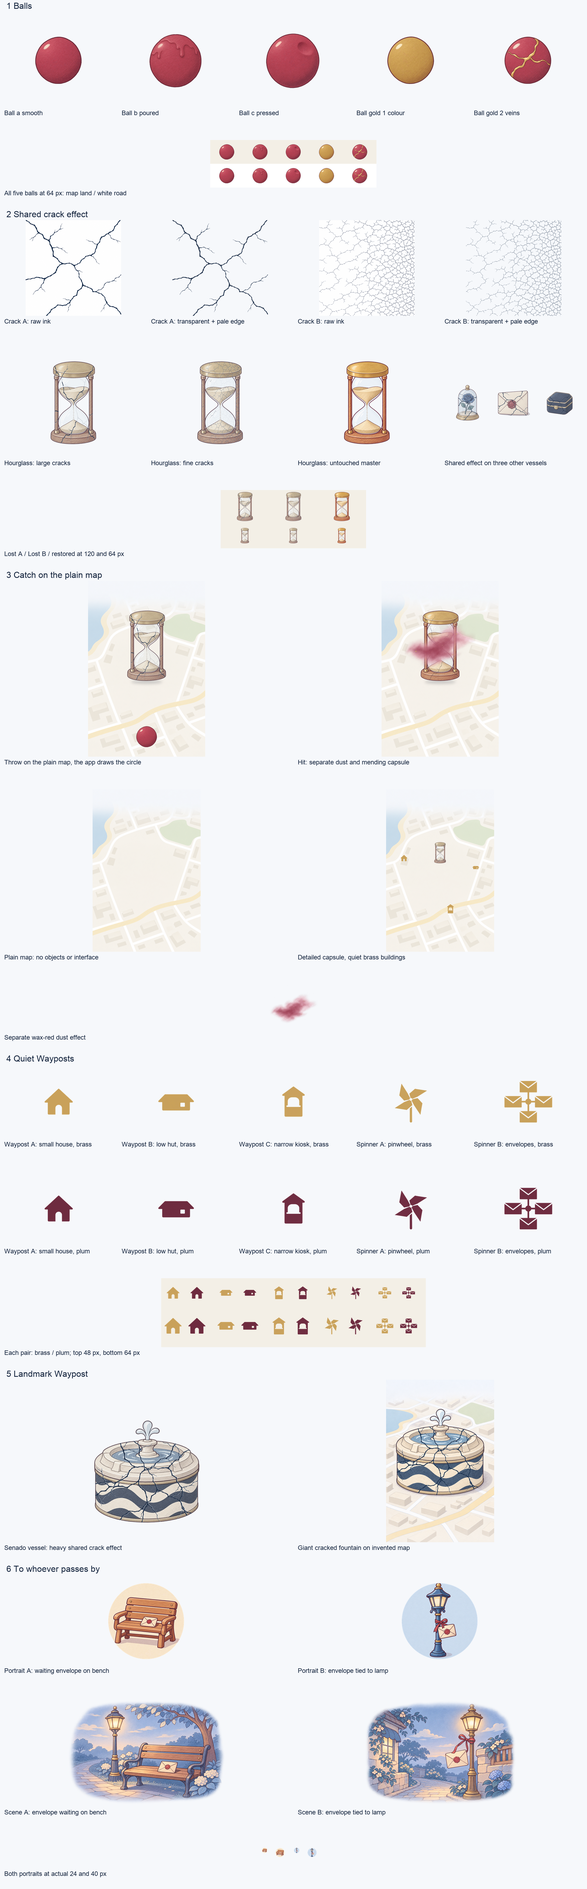
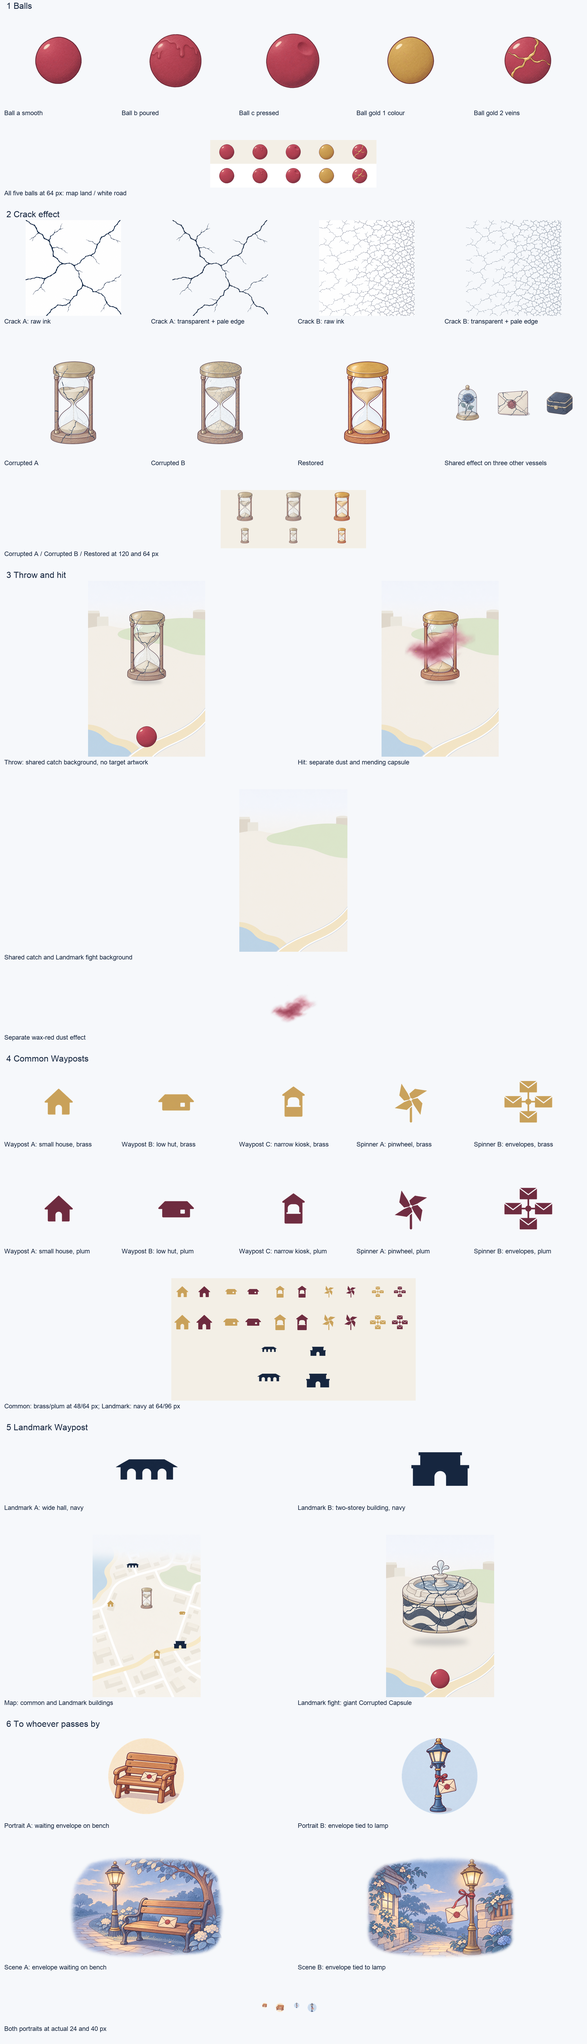
Separate Time Capsule catch backdrop and Landmark Wayposts

diff --git a/design/art/concepts/lost-and-found/make-review.py b/design/art/concepts/lost-and-found/make-review.py
@@ -16,8 +16,9 @@ def fit(im,w,h):
 def layer(im,xy):
     out=Image.new("RGBA",SIZE);out.alpha_composite(im,xy);return out
 def export(name,im): im.save(P/name)
+LANDMARKS=("simple-landmark-a-hall","simple-landmark-b-steps")
 def shapes():
-    for name in NAMES:
+    for name in LANDMARKS:
         f=P/f"waypost/{name}-raw.png";im=load(f)
         if max(im.size)>1024:im.thumbnail((1024,1024),Image.Resampling.LANCZOS)
         # Pad to a white square; preserve geometry and never upscale.
@@ -28,48 +29,54 @@ def shapes():
         alpha=gray.point(lambda v:max(0,min(255,round((255-v)*255/218))))
         # Remove near-white paper noise; retain antialiased boundaries.
         alpha=alpha.point(lambda v:0 if v<8 else v)
-        for colour,rgb in (("brass",BRASS),("plum",PLUM)):
+        for colour,rgb in (("navy",NAVY),):
             out=Image.new("RGBA",im.size,rgb+(0,));out.putalpha(alpha)
             export(f"waypost/{name}-{colour}.png",out)
 def compositions():
-    folder=P/"screens/layers";folder.mkdir(exist_ok=True)
-    background=load(P/"screens/map-plain.png")
+    background=load(P/"screens/catch-background.png")
     assert background.size==SIZE
-    lost=load(P/"cracks/hourglass-lost-a.png")
-    restored=load(P/"cracks/hourglass-restored.png")
-    bounds=box(lost)
-    capsule=resized(lost.crop(bounds),width=340)
-    mended=resized(Image.blend(lost,restored,.6).crop(bounds),width=340)
-    x=(1024-capsule.width)//2;y=260
-    shadow=Image.new("RGBA",SIZE);d=ImageDraw.Draw(shadow)
-    d.ellipse((x+35,y+capsule.height-8,x+capsule.width-35,y+capsule.height+25),fill=NAVY+(48,))
-    shadow=shadow.filter(ImageFilter.GaussianBlur(12))
-    ball=resized(crop(load(P/"ball/ball-a-smooth.png")),width=180)
-    ball_layer=layer(ball,((1024-ball.width)//2,1270))
-    capsule_layer=layer(capsule,(x,y));mending_layer=layer(mended,(x,y))
-    dust=resized(crop(load(P/"screens/hit-dust.png")),width=620)
-    dust_layer=layer(dust,((1024-dust.width)//2,y+(capsule.height-dust.height)//2))
-    for name,im in (("shadow",shadow),("capsule-lost",capsule_layer),("capsule-mending",mending_layer),("ball-a",ball_layer),("dust",dust_layer)):
-        export(f"screens/layers/{name}.png",im)
+    shadow=load(P/"screens/layers/shadow.png")
+    capsule=load(P/"screens/layers/capsule-corrupted.png")
+    mending=load(P/"screens/layers/capsule-mending.png")
+    ball=load(P/"screens/layers/ball-a.png")
+    dust=load(P/"screens/layers/dust.png")
     throw=background.copy()
-    for im in (shadow,capsule_layer,ball_layer):throw=Image.alpha_composite(throw,im)
+    for im in (shadow,capsule,ball):throw=Image.alpha_composite(throw,im)
     export("screens/screen-throw.png",throw.convert("RGB"))
     hit=background.copy()
-    for im in (shadow,mending_layer,dust_layer):hit=Image.alpha_composite(hit,im)
+    for im in (shadow,mending,dust):hit=Image.alpha_composite(hit,im)
     export("screens/screen-hit.png",hit.convert("RGB"))
-    overview=background.copy()
-    hero=resized(crop(lost),height=200);overview.alpha_composite(hero,((1024-hero.width)//2,500))
+    fountain=resized(crop(load(P/"cracks/senado-corrupted-heavy.png")),width=717)
+    fx=(1024-fountain.width)//2;fy=240
+    large_shadow=resized(shadow.crop(shadow.getchannel("A").getbbox()),width=620)
+    fight_shadow=layer(large_shadow,((1024-large_shadow.width)//2,fy+fountain.height-8))
+    fight_capsule=layer(fountain,(fx,fy))
+    export("screens/layers/landmark-shadow.png",fight_shadow)
+    export("screens/layers/landmark-capsule.png",fight_capsule)
+    fight=background.copy()
+    for im in (fight_shadow,fight_capsule,ball):fight=Image.alpha_composite(fight,im)
+    export("screens/screen-landmark-fight.png",fight.convert("RGB"))
+    overview=load(P/"screens/map-plain.png")
+    hero=resized(crop(load(P/"cracks/hourglass-corrupted-a.png")),height=200)
+    overview.alpha_composite(hero,((1024-hero.width)//2,500))
     for name,(cx,cy) in zip(NAMES[:3],((170,650),(850,740),(610,1130))):
         im=resized(crop(load(P/f"waypost/{name}-brass.png")),width=64)
         overview.alpha_composite(im,(cx-im.width//2,cy-im.height//2))
+    for name,(cx,cy) in zip(LANDMARKS,((380,290),(830,1040))):
+        im=resized(crop(load(P/f"waypost/{name}-navy.png")),width=120)
+        overview.alpha_composite(im,(cx-im.width//2,cy-im.height//2))
     export("screens/map-capsule-and-wayposts.png",overview.convert("RGB"))
 def small_check():
-    out=Image.new("RGBA",(1000,260),LAND+(255,))
+    out=Image.new("RGBA",(1000,500),LAND+(255,))
     for i,name in enumerate(NAMES):
         for j,colour in enumerate(("brass","plum")):
             for row,size in enumerate((48,64)):
                 im=fit(crop(load(P/f"waypost/{name}-{colour}.png")),size,size)
                 out.alpha_composite(im,(i*200+j*90+(90-im.width)//2,15+row*125+(80-im.height)//2))
+    for i,name in enumerate(LANDMARKS):
+        for row,size in enumerate((64,96)):
+            im=fit(crop(load(P/f"waypost/{name}-navy.png")),size,size)
+            out.alpha_composite(im,(350+i*200+(100-im.width)//2,280+row*110))
     export("checks/wayposts-64.png",out)
 def sheet():
     font=ImageFont.truetype("/System/Library/Fonts/Supplemental/Arial.ttf",24)
@@ -78,16 +85,17 @@ def sheet():
     rows=[
       ("1 Balls",[(str(f.relative_to(P)),f.stem.replace("ball-","Ball ").replace("-"," ")) for f in sorted((P/"ball").glob("*.png"))],400),
       ("",[("checks/balls-64.png","All five balls at 64 px: map land / white road")],220),
-      ("2 Shared crack effect",[(f"cracks/crack-{k}{s}.png",f"Crack {k[0].upper()}: "+("raw ink" if s else "transparent + pale edge")) for k in ("a-large","b-fine") for s in ("-raw","")],400),
-      ("",[(f"cracks/hourglass-{k}.png",label) for k,label in (("lost-a","Hourglass: large cracks"),("lost-b","Hourglass: fine cracks"),("restored","Hourglass: untouched master"))]+[("cracks/other-vessels-proof.png","Shared effect on three other vessels")],450),
-      ("",[("checks/hourglasses-120-64.png","Lost A / Lost B / restored at 120 and 64 px")],260),
-      ("3 Catch on the plain map",[("screens/screen-throw.png","Throw on the plain map, the app draws the circle"),("screens/screen-hit.png","Hit: separate dust and mending capsule")],700),
-      ("",[("screens/map-plain.png","Plain map: no objects or interface"),("screens/map-capsule-and-wayposts.png","Detailed capsule, quiet brass buildings")],650),
+      ("2 Crack effect",[(f"cracks/crack-{k}{s}.png",f"Crack {k[0].upper()}: "+("raw ink" if s else "transparent + pale edge")) for k in ("a-large","b-fine") for s in ("-raw","")],400),
+      ("",[(f"cracks/hourglass-{k}.png",label) for k,label in (("corrupted-a","Corrupted A"),("corrupted-b","Corrupted B"),("restored","Restored"))]+[("cracks/other-vessels-proof.png","Shared effect on three other vessels")],450),
+      ("",[("checks/hourglasses-120-64.png","Corrupted A / Corrupted B / Restored at 120 and 64 px")],260),
+      ("3 Throw and hit",[("screens/screen-throw.png","Throw: shared catch background, no target artwork"),("screens/screen-hit.png","Hit: separate dust and mending capsule")],700),
+      ("",[("screens/catch-background.png","Shared catch and Landmark fight background")],650),
       ("",[("screens/hit-dust.png","Separate wax-red dust effect")],220),
-      ("4 Quiet Wayposts",[(f"waypost/{n}-brass.png",label+", brass") for n,label in zip(NAMES,names)],320),
+      ("4 Common Wayposts",[(f"waypost/{n}-brass.png",label+", brass") for n,label in zip(NAMES,names)],320),
       ("",[(f"waypost/{n}-plum.png",label+", plum") for n,label in zip(NAMES,names)],320),
-      ("",[("checks/wayposts-64.png","Each pair: brass / plum; top 48 px, bottom 64 px")],300),
-      ("5 Landmark Waypost",[("cracks/senado-lost-heavy.png","Senado vessel: heavy shared crack effect"),("screens/screen-landmark.png","Giant cracked fountain on invented map")],650),
+      ("",[("checks/wayposts-64.png","Common: brass/plum at 48/64 px; Landmark: navy at 64/96 px")],500),
+      ("5 Landmark Waypost",[("waypost/simple-landmark-a-hall-navy.png","Landmark A: wide hall, navy"),("waypost/simple-landmark-b-steps-navy.png","Landmark B: two-storey building, navy")],300),
+      ("",[("screens/map-capsule-and-wayposts.png","Map: common and Landmark buildings"),("screens/screen-landmark-fight.png","Landmark fight: giant Corrupted Capsule")],650),
       ("6 To whoever passes by",[("whoever/portrait-a-bench.png","Portrait A: waiting envelope on bench"),("whoever/portrait-b-lamp.png","Portrait B: envelope tied to lamp")],380),
       ("",[("whoever/scene-a-bench.png","Scene A: envelope waiting on bench"),("whoever/scene-b-lamp.png","Scene B: envelope tied to lamp")],450),
       ("",[("checks/portraits-24-40.png","Both portraits at actual 24 and 40 px")],150)

diff --git a/design/art/concepts/lost-and-found/README.md b/design/art/concepts/lost-and-found/README.md
@@ -1,65 +1,120 @@
 # Time Capsule / 時光膠囊 — concept pictures
 
-Concept review only. Catching uses the plain live map. The app draws the target and animates the capsule in code; neither is baked into these pictures. Ball A is a stand-in until Roy chooses a ball.
+Review concepts only. System vessels are **Corrupted Capsules / 破損膠囊**. A common Waypost is a quiet flat building; a Landmark Waypost is a larger flat navy building. The giant Corrupted Capsule appears inside the Landmark fight preview, not as its map marker.
 
 ## Roy to choose
 
-- Ball: A smooth, B poured, or C pressed wax.
+- Ball: A smooth, B poured or C pressed wax.
 - Gold treatment: solid brass-gold wax or branching brass-gold veins.
-- Crack style: A large branching cracks or B fine crackle.
-- Waypost shape: A small house, B low wide hut, or C narrow kiosk.
-- Waypost colour: flat brass or flat plum.
-- Spinning object: four-blade pinwheel or four-envelope windmill.
+- Crack style: Corrupted A (large branching cracks) or Corrupted B (fine crackle).
+- Common Waypost shape: small house, low wide hut or narrow kiosk.
+- Common Waypost colour: flat brass or flat plum.
+- Landmark Waypost shape: wide hall or two-storey building.
+- Spinning object: pinwheel or four-envelope windmill.
 - Portrait: bench or lamp.
 - Scene: bench or lamp.
 
-## Kept art
+## Preserved art and file renames
 
-Everything under `ball/`, `cracks/` and `whoever/`, plus `screens/screen-landmark.png`, stays byte-identical to commit `15930fd2b182bbd9b5810416a3a2ab45a80e6d3d`. The six detailed Waypost/spinner pictures are deleted.
+Everything in `ball/` and `whoever/`, `screens/map-plain.png`, `screens/hit-dust.png`, and all common `waypost/simple-*` files from commit `8f6100e` stays byte-identical.
 
-The maps are invented generic streets and show no real place. The real-geography reference step does not apply. The existing landmark illustration is retained unchanged.
+The four renamed capsule pictures are also byte-identical to their source blobs in that commit:
+- `cracks/hourglass-corrupted-a.png`
+- `cracks/hourglass-corrupted-b.png`
+- `cracks/senado-corrupted-heavy.png`
+- `screens/layers/capsule-corrupted.png`
 
-## Independent layers
+They were renamed with `git mv`. The older Landmark screen is deleted.
 
-The app can move these separately:
+## Independent app layers
 
-- Map: `screens/map-plain.png`.
-- Shadow: `screens/layers/shadow.png`.
-- Capsule: `screens/layers/capsule-lost.png` or `capsule-mending.png`.
-- Ball: `screens/layers/ball-a.png`.
-- Dust: `screens/hit-dust.png` as the standalone effect, or `screens/layers/dust.png` as a positioned preview layer.
+Map, shadow, capsule, ball and dust remain separate. For catch/fight, the background is `screens/catch-background.png`; `screens/map-plain.png` is the live-map concept background.
 
-The positioned layers all use a transparent 1024 × 1536 canvas. Capsule layers contain no shadow, ball, dust or target. The throw/hit composites are review previews; the app should use the separate layers for motion.
+Existing positioned 1024 × 1536 layers stay separate: `screens/layers/shadow.png`, `capsule-corrupted.png`, `capsule-mending.png`, `ball-a.png`, and `dust.png`. The fight adds independent `landmark-shadow.png` and `landmark-capsule.png` layers. No target, dial, ring or glow is drawn around a capsule. The app supplies the target and movement.
+
+Both backgrounds are invented and show no real place, so the real-geography reference step does not apply. The catch background uses larger, calmer flat shapes than the live map.
 
 ## Script processing
 
-Run from the repository root with Pillow in a temporary environment outside the repository:
+Run from the repository root using Pillow in a temporary environment outside the repository:
 
 ```sh
 /tmp/timecapsule-concept-venv/bin/python design/art/concepts/lost-and-found/make-review.py
 ```
 
-`make-review.py` writes only inside this concept folder. It never re-saves the kept art.
+The script writes only inside this concept folder. It does not re-save protected art or the renamed capsule pictures.
 
-- The five `waypost/simple-*-raw.png` sources are downscaled without upscaling, with any nonsquare output padded to a white 1024 square. White becomes transparent using darkness as alpha, normalised to navy ink density. Near-white paper noise is discarded. Each mask gets constant RGB #C9A15A brass or #6E2B3F plum. No blue derivative versions are made.
-- The normal ball is the exact `ball/ball-a-smooth.png` artwork cropped by alpha and uniformly resized to 180 px wide.
-- The lost capsule is the exact `cracks/hourglass-lost-a.png`, cropped by alpha and uniformly resized to 340 px wide. It starts at y=260 on the 1024 × 1536 preview canvas.
-- The mending capsule blends the full lost and restored hourglass source pixels 60% toward the restored source, then uses the exact same crop, scale and position.
-- The shadow is a small low-opacity navy ellipse blurred by 12 px, exported on its own canvas.
-- `screens/screen-throw.png` composites map → shadow → lost capsule → normal ball. No motion marks, glow or target.
-- `screens/screen-hit.png` composites map → same shadow → mending capsule → dust centred over the capsule at 620 px wide. No ball or target.
-- `screens/map-capsule-and-wayposts.png` uses the map, an exact lost hourglass at 200 px tall, and the three brass buildings at 64 px wide on different streets.
-- `checks/wayposts-64.png` shows each shape in brass and plum, top row at maximum dimension 48 px, bottom at 64 px, on map land #F3EFE6.
-- `contact-sheet.png` groups the kept balls, cracks, landmark and envelope portraits/scenes with the revised map, catch previews, Wayposts, spinners and checks. Width is 2200 px. Only this image contains captions.
-- Existing ball/hourglass/portrait checks stay unchanged. The original kept crack overlays use darkness as alpha with a thin offset pale edge; lost vessels use 50% saturation, a light cool mist and cracks stretched to the alpha bounding box and clipped to original alpha. The restored hourglass is an untouched master copy. Existing portrait circles and scene edge fades are preserved.
+- The two new Landmark raw images are downscaled to 1024 without upscaling and padded to a white square if needed. White becomes transparent using darkness as alpha, normalised to navy ink density. Near-white noise is removed; RGB is constant navy #16263F.
+- Common Waypost/spinner brass and plum masks remain unchanged. They were made from the existing raw shapes using the same darkness-to-alpha method.
+- The Corrupted hourglass layer retains its exact 340 px width, y=260 position and artwork. Ball A remains the 180 px stand-in at its previous bottom-centre position.
+- `screens/screen-throw.png` and `screen-hit.png` retain the exact positioned layers, sizes and order from `8f6100e`; only their background changes to the shared catch background.
+- The mending layer is retained: full source pixels blended 60% toward the restored hourglass, then uniformly cropped/scaled like the Corrupted layer.
+- `screens/screen-landmark-fight.png` composites catch background → enlarged existing soft shadow → the kept heavy Corrupted Senado capsule at 717 px wide, y=240 → the exact existing ball layer. The shadow's full alpha bounds preserve its soft edges. The separate fight capsule and shadow layers are exported.
+- `screens/map-capsule-and-wayposts.png` keeps the previous live-map background, 200 px Corrupted hourglass and three 64 px brass Wayposts at their previous positions. It adds both navy Landmark buildings at 120 px wide on separate streets. No giant capsule is placed on this map.
+- `checks/wayposts-64.png` preserves the common shape/colour comparison at 48 and 64 px and adds the two navy Landmark buildings at 64 and 96 px, all on map land #F3EFE6.
+- `contact-sheet.png` is 2200 px wide, with sections Balls → Crack effect → Throw and hit → Common Wayposts → Landmark Waypost → To whoever passes by. It is the only image containing text.
+- The kept crack overlays, Corrupted vessel effects, restored master, ball checks, portrait circles, scene fades and their checks retain the previously documented processing and pixels. Original crack effects reduce saturation by half, add cool mist, stretch the cracks to the vessel alpha bounding box and clip to the original alpha.
 
-## Review
+Visual review covers no writing/logos, no target artwork, the shared simple background, flat Landmark building silhouettes, independent layers and small-size readability. The two-storey raw source was regenerated once to remove unrequested windows. No app/browser/device integration is claimed.
 
-Visual checks cover no writing/logos, no targets/rings, empty plain map, distinct flat silhouettes, no painted catch background, separate layers and small-size readability. Kept-art hashes are checked against the previous commit. This remains concept art; no app or browser integration is claimed.
+## Exact final prompts for the three new pictures
 
-## Exact generation prompts
+Model: **gpt-image-2 through Codex's built-in image tool**. The approved style sheet is the first reference on every call.
 
-All generated pictures use **gpt-image-2 through Codex's built-in image tool**. The first reference is always the approved style sheet. The seven new prompts below start with the unchanged style block, followed by the required override and notes.
+### `screens/catch-background.png`
+
+Model: `gpt-image-2`
+
+References: `design/art/style-sheet.png`
+
+```text
+App: 時光膠囊 / Time Capsule. People send a sealed letter that can only be opened at a set time and place. Mood: tender, human, nostalgic, "precious in the AI age". Hand-inked storybook, not glossy 3D.
+- Clean ink line art with a slightly hand-drawn line, flat colour fills plus one soft shading tone, a little paper grain, light hatching only (it must still read at about 120 px). Lines in plum #6E2B3F or navy #16263F.
+- Palette only: ink blue #2F5D8A, light blue #5A8FD0, glass blue #DCE8F2, plum #6E2B3F, brass #C9A15A, wax red #A3364F, navy #16263F, paper #F6F8FB, cream #F3E2BB. Warm brown wood is allowed for wooden objects.
+- Front three-quarter view, soft top-left light. No text, letters, numbers, logos or real brands.
+- Transparent background, object centred, generous padding (object fills about 70% of the canvas), square.
+Match the attached style sheet exactly.
+Override for this image only: this is an empty full-bleed portrait phone-screen background, about 1024×1536, not an object on a transparent square. Ignore the style block's lines about ink line art, hatching, view, transparent background, centring, padding, square format and palette. Do not copy the objects or detail of the style sheet. Every pixel is filled using only: water #BCD3E6, land #F3EFE6, park #DCE6CF, sand #EFE3C6, building #E6E0D3, building top #EEE9DE, road #FFFFFF, road edge #D5DDE7, main road #F1E2BF, paper #F6F8FB.
+A simple made-up backdrop built from large flat shapes: open pale land, one wide park shape, one curved road, a little water and only a few simple pale blocks near the edges. It is calmer and has bigger shapes than a street map, and is not a real place. The middle of the picture is open plain land. The top edge fades softly into paper #F6F8FB. Flat colour only, not painted. No outlines, labels, pins, trees, grass, cars, people, sky, clouds, phone frame, status bar, buttons, icons or circles.
+```
+
+### `waypost/simple-landmark-a-hall-raw.png`
+
+Model: `gpt-image-2`
+
+References: `design/art/style-sheet.png`
+
+```text
+App: 時光膠囊 / Time Capsule. People send a sealed letter that can only be opened at a set time and place. Mood: tender, human, nostalgic, "precious in the AI age". Hand-inked storybook, not glossy 3D.
+- Clean ink line art with a slightly hand-drawn line, flat colour fills plus one soft shading tone, a little paper grain, light hatching only (it must still read at about 120 px). Lines in plum #6E2B3F or navy #16263F.
+- Palette only: ink blue #2F5D8A, light blue #5A8FD0, glass blue #DCE8F2, plum #6E2B3F, brass #C9A15A, wax red #A3364F, navy #16263F, paper #F6F8FB, cream #F3E2BB. Warm brown wood is allowed for wooden objects.
+- Front three-quarter view, soft top-left light. No text, letters, numbers, logos or real brands.
+- Transparent background, object centred, generous padding (object fills about 70% of the canvas), square.
+Match the attached style sheet exactly.
+Override for this image only: this is one very simple flat silhouette, not an illustration. Ignore the style block's lines about ink line art, shading, paper grain, hatching, three-quarter view, palette and transparent background. Do not copy the objects or detail of the style sheet. Pure white background, one single flat navy #16263F shape seen straight from the front, about 70% of the canvas, with no outline, shading, texture, gradient or second colour. Any detail is a simple white cut-out. It is clearly a larger, more important building and looks nothing like a capsule, vessel, jar, box or fountain. Not a tower, arena, temple or real building, and no disc, ring, base circle, beam or glow.
+A wide plain hall with one long low roof and three arched door cut-outs. No text, letters, numbers, logos or writing-like marks.
+```
+
+### `waypost/simple-landmark-b-steps-raw.png`
+
+Model: `gpt-image-2`
+
+References: `design/art/style-sheet.png`
+
+```text
+App: 時光膠囊 / Time Capsule. People send a sealed letter that can only be opened at a set time and place. Mood: tender, human, nostalgic, "precious in the AI age". Hand-inked storybook, not glossy 3D.
+- Clean ink line art with a slightly hand-drawn line, flat colour fills plus one soft shading tone, a little paper grain, light hatching only (it must still read at about 120 px). Lines in plum #6E2B3F or navy #16263F.
+- Palette only: ink blue #2F5D8A, light blue #5A8FD0, glass blue #DCE8F2, plum #6E2B3F, brass #C9A15A, wax red #A3364F, navy #16263F, paper #F6F8FB, cream #F3E2BB. Warm brown wood is allowed for wooden objects.
+- Front three-quarter view, soft top-left light. No text, letters, numbers, logos or real brands.
+- Transparent background, object centred, generous padding (object fills about 70% of the canvas), square.
+Match the attached style sheet exactly.
+Override for this image only: this is one very simple flat silhouette, not an illustration. Ignore the style block's lines about ink line art, shading, paper grain, hatching, three-quarter view, palette and transparent background. Do not copy the objects or detail of the style sheet. Pure white background, one single flat navy #16263F shape seen straight from the front, about 70% of the canvas, with no outline, shading, texture, gradient or second colour. Any detail is a simple white cut-out. It is clearly a larger, more important building and looks nothing like a capsule, vessel, jar, box or fountain. Not a tower, arena, temple or real building, and no disc, ring, base circle, beam or glow.
+A wide two-storey building, with a smaller upper storey sitting on a larger lower storey, plain flat roofs and ONE central arched door cut-out. Absolutely no windows, decorative panels, columns or other details. The central door is the ONLY white cut-out in an otherwise solid stepped silhouette. No text, letters, numbers, logos or writing-like marks.
+```
+
+## Retained generation provenance
+
+Prompts already recorded for kept pictures remain word for word; they may contain older wording or file names. The obsolete Landmark screen prompt has been removed.
 
 ### `screens/map-plain.png`
 
@@ -186,10 +241,6 @@ FOUR plain envelope silhouettes joined at a small centre hub, like a little wind
 No pole-like building, sign, tall tower, arena, cube, floating shape, disc, ring, base circle, beam or glow. No text, letters, numbers, labels, logos or marks resembling writing. Do not add any details beyond the requested cut-out.
 ```
 
-## Retained generation provenance
-
-These exact original prompts document the kept generated files. Their outputs are unchanged.
-
 ### `ball/ball-a-smooth.png`
 
 Model: `gpt-image-2`
@@ -309,24 +360,6 @@ Match the attached style sheet exactly.
 Override for this image only: this is a crack-pattern layer, not an object. Ignore the style block's lines about view, transparent background, centring, padding and palette. Pure white background, navy #16263F ink lines only, no shading and no object. The pattern fills the whole square from edge to edge.
 Fine crackle like old porcelain, denser on the right side and sparse on the left. Continuous branching network across the whole square to edges. No border.
 No text, letters, numbers, logos or marks resembling writing. No extra objects.
-```
-
-### `screens/screen-landmark.png`
-
-Model: `gpt-image-2`
-
-References: `design/art/style-sheet.png`, `design/art/concepts/lost-and-found/cracks/senado-lost-heavy.png`
-
-```text
-App: 時光膠囊 / Time Capsule. People send a sealed letter that can only be opened at a set time and place. Mood: tender, human, nostalgic, "precious in the AI age". Hand-inked storybook, not glossy 3D.
-- Clean ink line art with a slightly hand-drawn line, flat colour fills plus one soft shading tone, a little paper grain, light hatching only (it must still read at about 120 px). Lines in plum #6E2B3F or navy #16263F.
-- Palette only: ink blue #2F5D8A, light blue #5A8FD0, glass blue #DCE8F2, plum #6E2B3F, brass #C9A15A, wax red #A3364F, navy #16263F, paper #F6F8FB, cream #F3E2BB. Warm brown wood is allowed for wooden objects.
-- Front three-quarter view, soft top-left light. No text, letters, numbers, logos or real brands.
-- Transparent background, object centred, generous padding (object fills about 70% of the canvas), square.
-Match the attached style sheet exactly.
-Override for this image only: this is a full-bleed portrait phone screen, about 1024×1536, not one object on a transparent square. Ignore the style block's lines about transparent background, centring, padding and square format. Every pixel is filled. The map may also use these app map colours: water #BCD3E6, land #F3EFE6, park #DCE6CF, sand #EFE3C6, building #E6E0D3, building top #EEE9DE, road #FFFFFF, road edge #D5DDE7, main road #F1E2BF. The map has no ink outlines or hatching, so the hand-inked objects stand out. Inked objects still follow the style block.
-The background is an invented street map seen from above at a gentle tilt, like a calm navigation map: flat pale land, a few white streets, one main road, low pale building blocks, one flat pale park shape and a little water. It is simple and quiet, with no labels, pins, trees, grass, cars, people, sky or clouds. The top edge fades softly into paper #F6F8FB. It is not a painted park or a separate scene, and not a camera view. Do not draw a phone frame, status bar, buttons, icons, counters or any other interface.
-ONE giant badly cracked Senado-fountain vessel from reference 2 stands directly on the map. Keep the exact low circular fountain-container design, wavy dark-and-cream side motif, circular water basin and central water spout from the reference. Towering over several low pale building blocks and clearly much larger than an ordinary map marker. Dulled colour, heavy navy cracks across it. No ring and no ball. No photo, real geography, text, letters, numbers, labels, writing-like marks, UI, creatures or characters.
 ```
 
 ### `whoever/portrait-a-bench.png`
